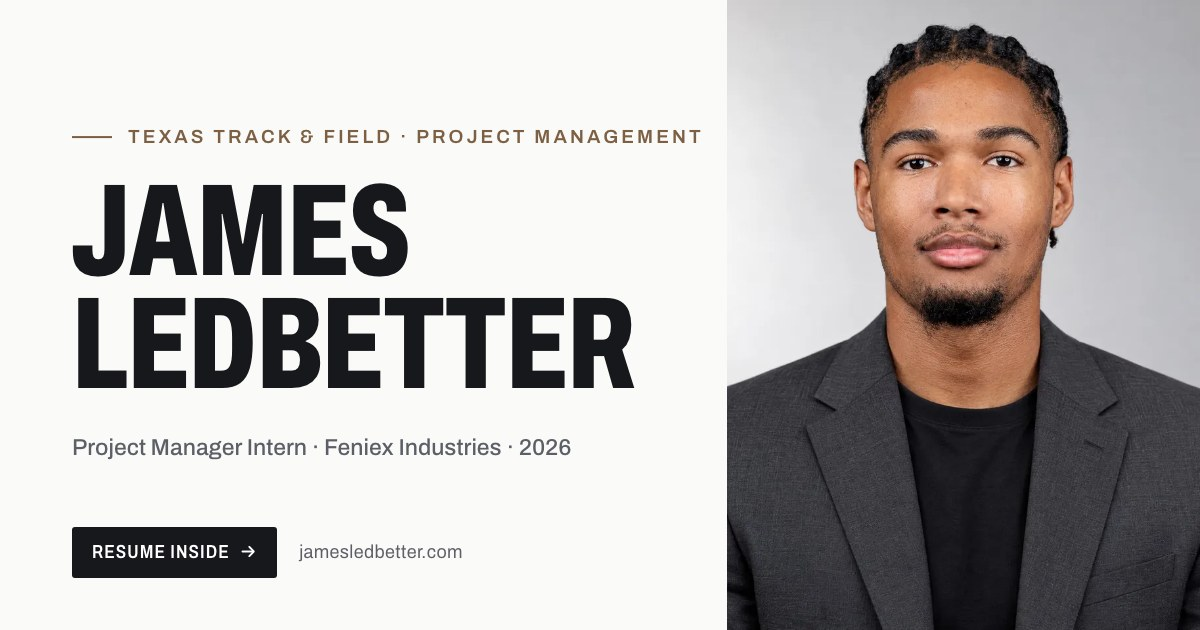
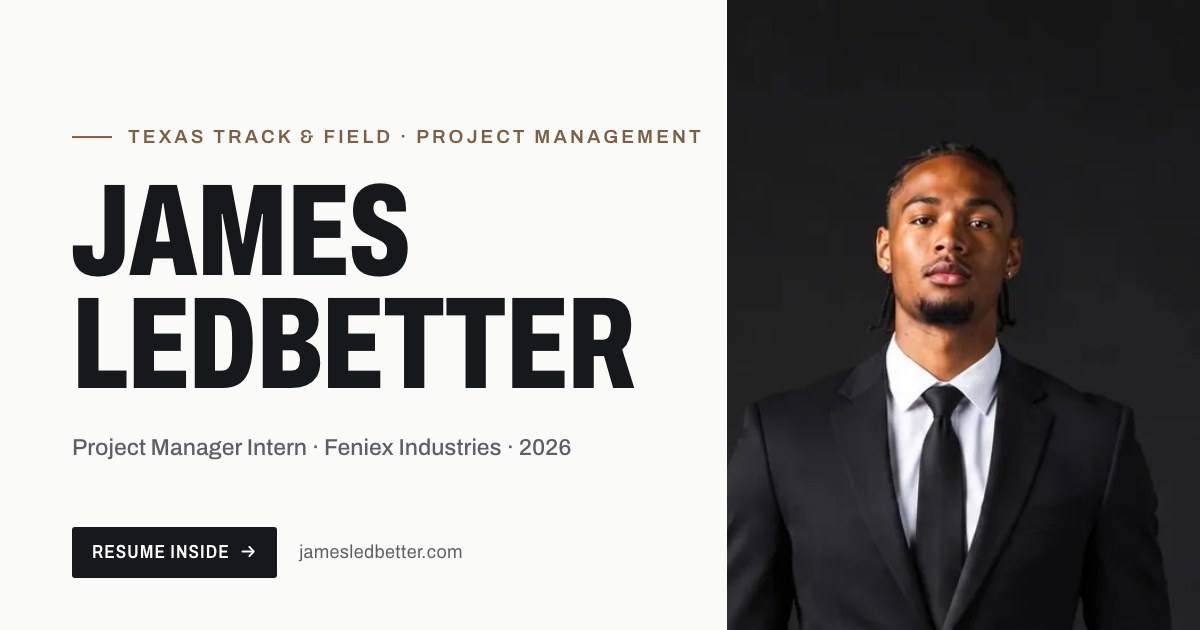
Update business and athletics photos and resume headshot

diff --git a/src/lib/schema.ts b/src/lib/schema.ts
@@ -14,7 +14,7 @@ const when = z.union([z.string().trim().min(1), z.number()]).transform((v) => St
 const social = text;
 
 export const EVENT_GROUPS = ['sprints', 'hurdles', 'jumps', 'throws', 'distance', 'multis', 'other'] as const;
-export const IMAGERY = ['ai', 'original'] as const;
+export const IMAGERY = ['ai', 'original', 'provided'] as const;
 export const DEFAULT_HAMZA_ATTRIBUTION = 'Hamza Deyaf, Founder & CEO, Feniex Industries';
 
 const entryWithBullets = z.strictObject({
@@ -143,6 +143,7 @@ export const athleteSchema = z.strictObject({
     .strictObject({
       hero: text.optional(),
       portrait: text.optional(),
+      portraitAlt: text.optional(),
       action: z.array(text).default([]),
       /** What each action photo shows, in the same order (alt text). Omitted = "<name> competing". */
       actionAlt: z.array(text).default([]),
@@ -175,7 +176,7 @@ export const athleteSchema = z.strictObject({
     .optional(),
   /**
    * How the portraits were made. "ai": AI-assisted edits of the official headshot (light studio, captioned as
-   * such). "original": the untouched official photo, shown framed, with no AI caption.
+   * such). "original": framed photography. "provided": supplied photos in the existing layout, without AI captions.
    */
   imagery: z.enum(IMAGERY).default('ai'),
   photoCredits: z.array(text).default([]),

diff --git a/src/lib/athlete.ts b/src/lib/athlete.ts
@@ -121,7 +121,7 @@ async function build(): Promise<SiteData> {
   const images = a.images;
 
   const hero = (await athleteImage(a.slug, images?.hero, `${full}`)) ?? placeholder('hero');
-  const portrait = (await athleteImage(a.slug, images?.portrait, `Portrait of ${full}`)) ?? placeholder('portrait');
+  const portrait = (await athleteImage(a.slug, images?.portrait, images?.portraitAlt ?? `Portrait of ${full}`)) ?? placeholder('portrait');
   const action: Img[] = [];
   for (const [i, file] of (images?.action ?? []).entries()) {
     const img = await athleteImage(a.slug, file, images?.actionAlt[i] ?? `${full} competing`);
